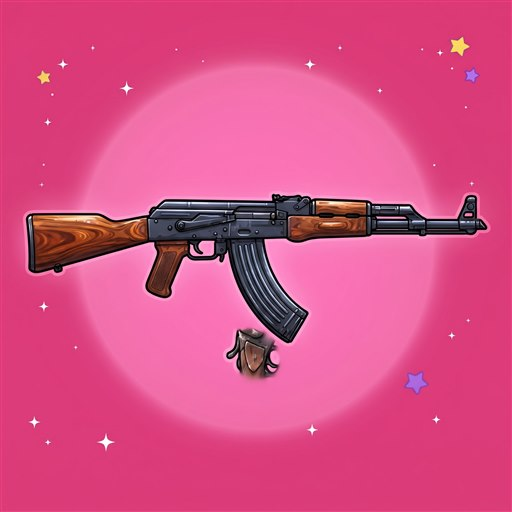
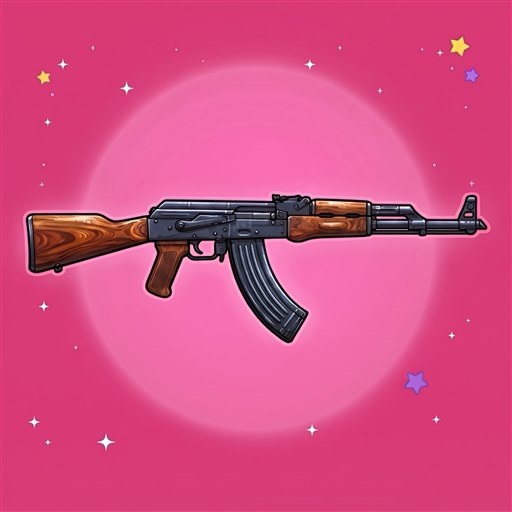
Opraveny obrazok Kalasnikova

diff --git a/js/remote.js b/js/remote.js
@@ -1,10 +1,10 @@
 // Online client: the same SimServer, but only as a read-only mirror of the state the real server sent.
 // Every action goes to the Edge Function "game"; its answer replaces the mirror. Things the server rolls
 // at random (mission offers, shop stock, arena opponents, rival gang moves) are never rolled here.
-import { SimServer } from './server.js?v=20261021203711';
-import { NET } from './net.js?v=20261021203711';
-import { CONFIG } from './config.js?v=20261021203711';
-import { SHOPS } from './data.js?v=20261021203711';
+import { SimServer } from './server.js?v=20261021203858';
+import { NET } from './net.js?v=20261021203858';
+import { CONFIG } from './config.js?v=20261021203858';
+import { SHOPS } from './data.js?v=20261021203858';
 
 const SUPABASE_JS = 'https://cdn.jsdelivr.net/npm/@supabase/supabase-js@2.45.4/+esm';
 
@@ -29,7 +29,7 @@ export class RemoteServer extends SimServer {
 
   // ?mock in the address: no Supabase, the server API runs in this browser against an in-memory database
   async initMock() {
-    const { handle, memoryDb } = await import('./api.js?v=20261021203711');
+    const { handle, memoryDb } = await import('./api.js?v=20261021203858');
     const db = memoryDb();
     const fake = { user: { id: 'mock-user', email: 'test@mock' } };
     this.sb = { auth: { signOut: async () => {}, signInWithPassword: async () => ({ data: { session: fake } }), signUp: async () => ({ data: { session: fake } }), resetPasswordForEmail: async () => ({}) } };

diff --git a/js/server.js b/js/server.js
@@ -1,9 +1,9 @@
 // Simulated game server. Every rule about money, rewards and fights lives here, so this module
 // can later move to a real backend (Supabase / Nakama) while the client keeps the same calls.
-import { CONFIG, F, STATS, STAT_NAMES, CLASSES, RARITIES, clamp, localParts } from './config.js?v=20261021203711';
-import { ITEM_BASES, SHOPS, MISSIONS, GIVERS, BOSSES, BOT_NAMES, SLOTS } from './data.js?v=20261021203711';
-import { makeFighter, simulate } from './combat.js?v=20261021203711';
-import { GangMixin } from './gangs.js?v=20261021203711';
+import { CONFIG, F, STATS, STAT_NAMES, CLASSES, RARITIES, clamp, localParts } from './config.js?v=20261021203858';
+import { ITEM_BASES, SHOPS, MISSIONS, GIVERS, BOSSES, BOT_NAMES, SLOTS } from './data.js?v=20261021203858';
+import { makeFighter, simulate } from './combat.js?v=20261021203858';
+import { GangMixin } from './gangs.js?v=20261021203858';
 
 const KEY = 'hitsnlicks.save.v1';
 const MIN = 60000;

diff --git a/js/main.js b/js/main.js
@@ -1,9 +1,9 @@
-import { SimServer } from './server.js?v=20261021203711';
-import { RemoteServer } from './remote.js?v=20261021203711';
-import { ONLINE } from './net.js?v=20261021203711';
-import { CONFIG } from './config.js?v=20261021203711';
-import { UI } from './ui.js?v=20261021203711';
-import { createWorld } from './world.js?v=20261021203711';
+import { SimServer } from './server.js?v=20261021203858';
+import { RemoteServer } from './remote.js?v=20261021203858';
+import { ONLINE } from './net.js?v=20261021203858';
+import { CONFIG } from './config.js?v=20261021203858';
+import { UI } from './ui.js?v=20261021203858';
+import { createWorld } from './world.js?v=20261021203858';
 
 // warm the browser cache so screens open without blank images
 ['maska', 'don', 'diler', 'kladivo', 'fightbg', 'it_pistol', 'it_bat', 'it_jacket', 'it_pants', 'it_sneaker', 'it_chain', 'it_ring', 'it_watch', 'it_duffel', 'it_package', 'it_keys']

diff --git a/js/gangs.js b/js/gangs.js
@@ -1,9 +1,9 @@
 // Gangs (guilds like in Shakes & Fidget) and Gang Wars: turf objects on the map give the whole gang
 // a bonus while it holds them. Rival gangs are computer-run until a real server brings real players.
 // Mixed into SimServer, so `this` is the server.
-import { CONFIG, F, STATS, CLASSES, RARITIES } from './config.js?v=20261021203711';
-import { TURF, TURF_KINDS, RIVAL_GANGS, GANG_COLORS, GANG_UPGRADES, BOT_NAMES } from './data.js?v=20261021203711';
-import { makeFighter, simulate, mulberry32 } from './combat.js?v=20261021203711';
+import { CONFIG, F, STATS, CLASSES, RARITIES } from './config.js?v=20261021203858';
+import { TURF, TURF_KINDS, RIVAL_GANGS, GANG_COLORS, GANG_UPGRADES, BOT_NAMES } from './data.js?v=20261021203858';
+import { makeFighter, simulate, mulberry32 } from './combat.js?v=20261021203858';
 
 const MIN = 60000;
 const ok = (data = {}) => ({ ok: true, ...data });

diff --git a/js/world.js b/js/world.js
@@ -1,7 +1,7 @@
 // The open world: pixel-art city, player movement, NPCs, traffic, police. Uses global Phaser.
 // The city (Mesto 1) comes from assets/world/city.json, made by tools/art/City.cs: a collision grid,
 // a street graph that cars, police, walkers, the Ripper and the runner move on, and the buildings (marks).
-import { NPCS, POIS, SPAWN, LABELS, TURF, TRAFFIC_CARS, POLICE_CARS, WALKER_SPRITES, WALKER_COUNT } from './data.js?v=20261021203711';
+import { NPCS, POIS, SPAWN, LABELS, TURF, TRAFFIC_CARS, POLICE_CARS, WALKER_SPRITES, WALKER_COUNT } from './data.js?v=20261021203858';
 
 const PEOPLE = ['hrac', 'zlodej', 'svalovec', 'dealer', 'boss', 'zadavatel', 'diler', 'mechanik', 'pravnicka', 'lekarka', 'policajt', 'chodkyna', 'chodec'];
 const CARS = ['sedan_blue', 'sedan_red', 'sedan_green', 'sedan_white', 'taxi', 'police', 'van', 'pickup'];

diff --git a/js/ui.js b/js/ui.js
@@ -1,7 +1,7 @@
 // HTML interface: HUD, menus, screens, modals. Talks only to the (simulated) server.
-import { STATS, STAT_NAMES, CLASSES, RARITIES, CONFIG, F } from './config.js?v=20261021203711';
-import { SLOTS, ITEM_BASES, SHOPS, MISSIONS, GIVERS, BOSSES, GANG_COLORS, GANG_RANKS, GANG_UPGRADES } from './data.js?v=20261021203711';
-import { LOOK_BASE, LOOK_PARTS } from './looks.js?v=20261021203711';
+import { STATS, STAT_NAMES, CLASSES, RARITIES, CONFIG, F } from './config.js?v=20261021203858';
+import { SLOTS, ITEM_BASES, SHOPS, MISSIONS, GIVERS, BOSSES, GANG_COLORS, GANG_RANKS, GANG_UPGRADES } from './data.js?v=20261021203858';
+import { LOOK_BASE, LOOK_PARTS } from './looks.js?v=20261021203858';
 
 const $ = (sel, el = document) => el.querySelector(sel);
 const fmt = (n) => Math.round(n).toLocaleString('sk-SK');

diff --git a/index.html b/index.html
@@ -8,7 +8,7 @@
 <link rel="preconnect" href="https://fonts.googleapis.com">
 <link rel="preconnect" href="https://fonts.gstatic.com" crossorigin>
 <link href="https://fonts.googleapis.com/css2?family=Grenze+Gotisch:wght@500;700;900&amp;family=EB+Garamond:ital,wght@0,400;0,500;0,600;0,700;1,400&amp;display=swap" rel="stylesheet">
-<link rel="stylesheet" href="css/style.css?v=20261021203711">
+<link rel="stylesheet" href="css/style.css?v=20261021203858">
 <script src="https://cdn.jsdelivr.net/npm/phaser@3.80.1/dist/phaser.min.js"></script>
 </head>
 <body>
@@ -70,6 +70,6 @@
   <div id="modal" hidden></div>
   <div id="toasts"></div>
 </div>
-<script type="module" src="js/main.js?v=20261021203711"></script>
+<script type="module" src="js/main.js?v=20261021203858"></script>
 </body>
 </html>

diff --git a/js/api.js b/js/api.js
@@ -11,8 +11,8 @@
 //   ladder(n) -> [{ id, name, points }]
 //   addPoints(id, delta)
 //   deletePlayer(id)
-import { SimServer } from './server.js?v=20261021203711';
-import { GIVERS, SHOPS } from './data.js?v=20261021203711';
+import { SimServer } from './server.js?v=20261021203858';
+import { GIVERS, SHOPS } from './data.js?v=20261021203858';
 
 const memStore = { load: () => null, save() {}, clear() {} };
 const fail = (error) => ({ ok: false, error });

diff --git a/js/combat.js b/js/combat.js
@@ -1,5 +1,5 @@
 // Automatic stat-based combat. Pure functions: the real server would run exactly this.
-import { CONFIG, F } from './config.js?v=20261021203711';
+import { CONFIG, F } from './config.js?v=20261021203858';
 
 export function mulberry32(seed) {
   let a = seed >>> 0;
